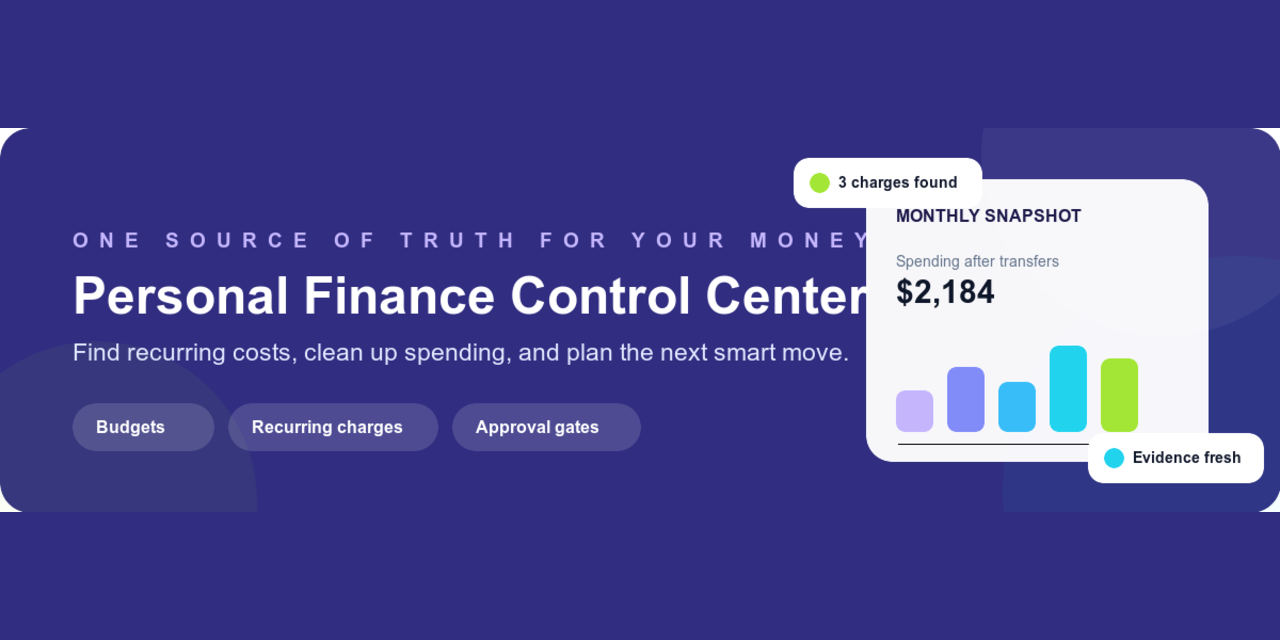
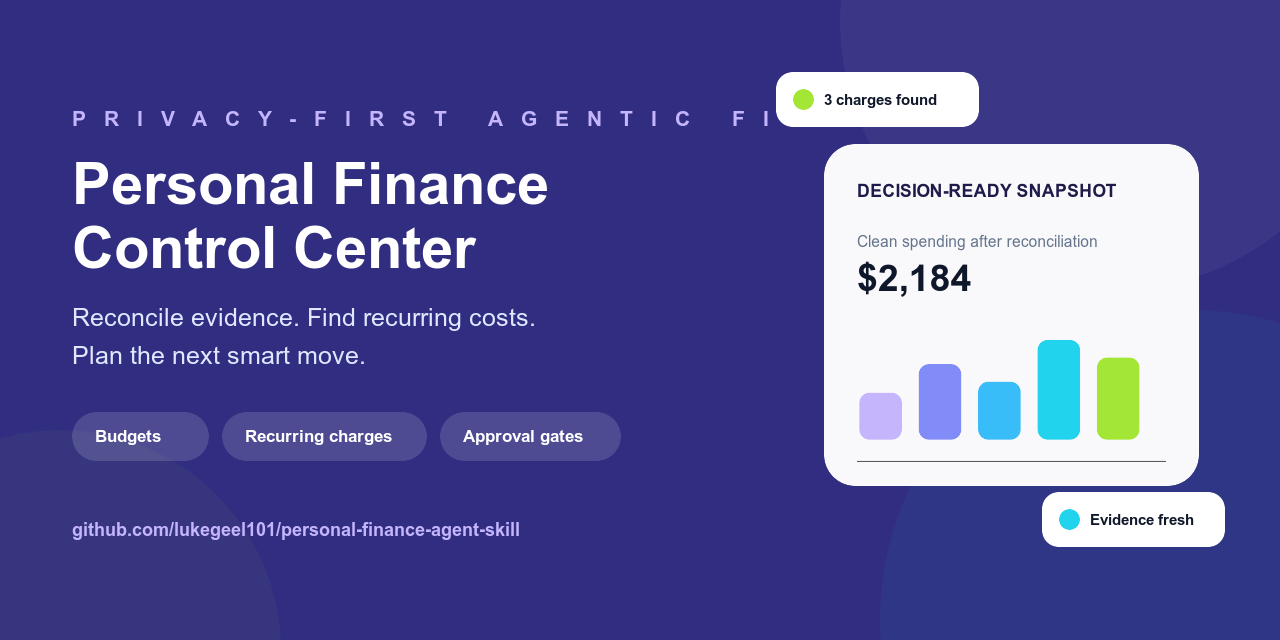
Add public launch automation and social preview

diff --git a/docs/gotchas.md b/docs/gotchas.md
@@ -95,3 +95,27 @@ Verified fix: inspect the command help, run the supported repository view comman
 Issue: the wide 1200 by 360 README hero crops poorly when reused directly as GitHub's approximately 2:1 social preview.
 
 Verified fix: render a separate 1280 by 640 PNG from a converter-stable SVG copy, replace unsupported gradients with matching solid palette colors, preserve the full hero inside a matching background, and visually verify the result before upload.
+
+## Fall back cleanly when the GitHub wrapper cache is unavailable
+
+Issue: `npx -y gh-axi` could not start because the local npm cache contained root-owned temporary files.
+
+Verified fix: use the already authenticated `gh` CLI for the same narrowly scoped GitHub operations, and verify each remote result through GitHub's API.
+
+## Verify current action versions with network access
+
+Issue: the first action-version lookup could not reach GitHub from the restricted environment.
+
+Verified fix: grant network access for the GitHub task, query the official action repositories, and pin the workflow to the current `actions/checkout@v7` and `actions/setup-python@v7` major versions.
+
+## Use explicit percentage coordinates for social-card gradients
+
+Issue: ImageMagick interpreted unitless SVG gradient endpoints differently and rendered the first social-preview background nearly black.
+
+Verified fix: replace conversion-sensitive gradient fills with calibrated solid brand colors, render the PNG again, and visually inspect the final 1280 by 640 asset.
+
+## Preserve concurrent public-presentation improvements
+
+Issue: the remote repository gained a presentation commit while the local CI and social-preview commit was being prepared, so the first push was correctly rejected and the rebase found overlapping social assets.
+
+Verified fix: fetch and inspect the remote commit, retain its README copy and cross-repository links, keep the newer 1280 by 640 social card, combine both gotcha records, rerun validation, and only then push the integrated history.

diff --git a/README.md b/README.md
@@ -5,7 +5,7 @@
   <p>
     <img src="https://img.shields.io/badge/default-read%20only-4f46e5?style=for-the-badge" alt="Read only by default">
     <img src="https://img.shields.io/badge/works%20with-ChatGPT%20%2B%20Claude-7c3aed?style=for-the-badge" alt="Works with ChatGPT and Claude">
-    <img src="https://img.shields.io/badge/tests-9%20passing-0891b2?style=for-the-badge" alt="Nine passing tests">
+    <a href="https://github.com/lukegeel101/personal-finance-agent-skill/actions/workflows/ci.yml"><img src="https://github.com/lukegeel101/personal-finance-agent-skill/actions/workflows/ci.yml/badge.svg" alt="CI status"></a>
   </p>
 </div>
 
